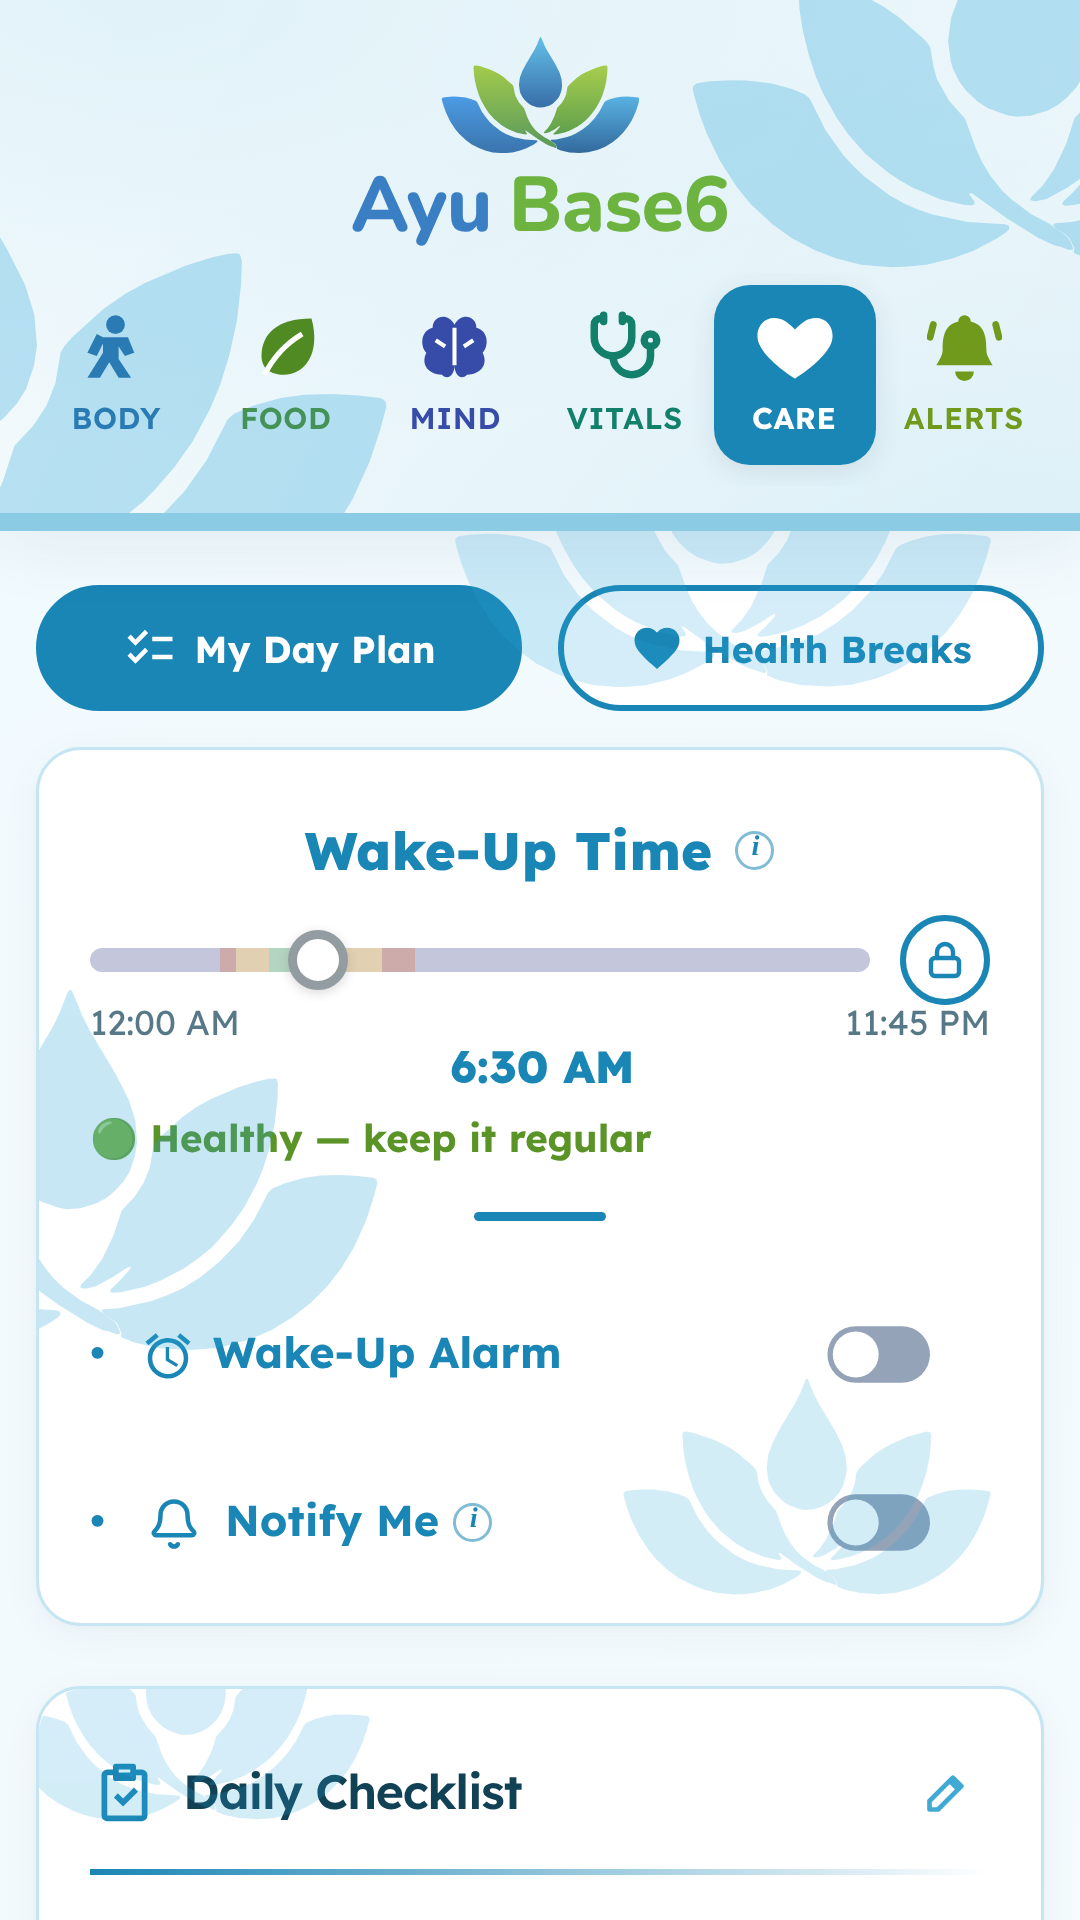
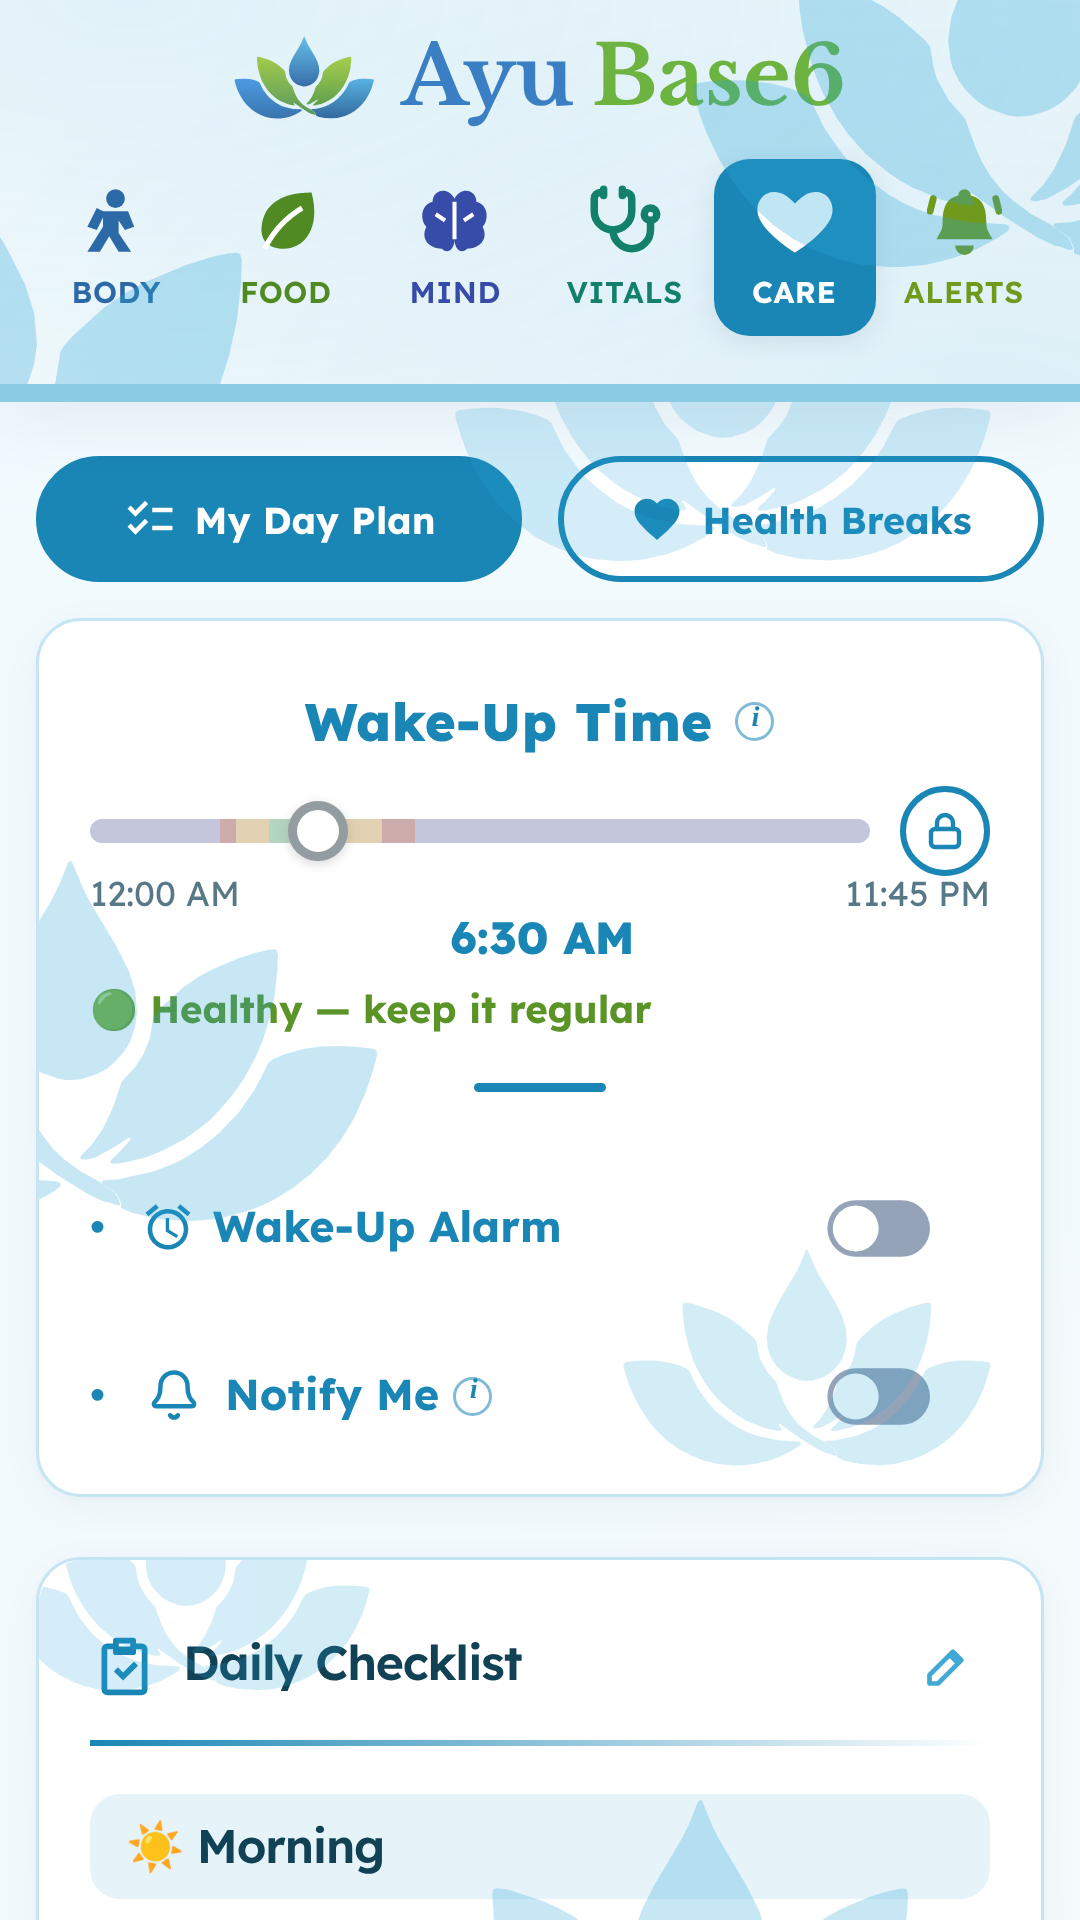
Play feature graphic and screenshots: Libre Baskerville wordmark; notes updated
Claude-Session: https://claude.ai/code/session_01VW8BU3SKMPiE9zHpTANadT

diff --git a/HANDOFF.md b/HANDOFF.md
@@ -45,7 +45,7 @@ Owner: Sharath (Hyderabad, India). App: **AyuBase6**, a health PWA (Body, Food, 
 
 ## State at handoff
 - 03-Nov-2026: files swapped (live site = no-push build), Reminders and Checks switches independent, push-server timer paused, Android app offer on the website (hidden until the first publish), privacy page, notification buttons, ads in the app, Play material ready. 04-Nov-2026: offline notice, PDF tools offline, photos and Enable offline reading in Lab Insights, Backup & Restore → Download app (Install buttons removed), My Day Plan (24 hours, shift schedule), two alarms (Checks and Reminders), Help tabs merged. Everything requested so far is committed. Next on Sharath's side: release key + token secrets, then the first publish run.
-- Logo: lotus-and-drop mark (blue petals, green leaves, blue drop) with the wordmark AyuBase (navy `#1f4f93`) + 6 (green `#6cb33f`). Section colours (main/deep): Body `#3982c3`/`#2b6aa6`, Food `#73b13b`/`#4f8a22`, Mind `#4a63c4`/`#364ca8`, Vitals `#1fa088`/`#13806c`, Care `#2aa7d9`/`#1a86b5`, Alerts (was Reminders; tab label ALERTS) `#a3c93a`/`#6f9a1c`. They come from one config: the `THEME` object in `<script id="ayu-theme">` in index.html (one block per tab; edit a tab's block to recolour only that tab). Family colours in the CSS are `var(--f<family>-<hex>,fallback)` tokens that each panel redefines. `--footer-accent` follows the open section; popups, banners, footer, test notification and tour use it. Android: `NotificationArt.java` themes match `NUDGE_THEMES`; the mark is drawn from the same 5 shapes (`MARK` / `NUDGE_MARK`).
+- Logo: lotus-and-drop mark (blue petals, green leaves, blue drop) with the wordmark "Ayu" (blue `#3a7fc4`) + "Base6" (green `#6cb33f`) in Libre Baskerville Bold (embedded as `Baskerville Ayu`); on phones the mark sits left of the name (52px wide), on the desktop sidebar they stay stacked. The footer is a raised, rounded panel tinted with the open section's colour. Play feature graphic and screenshots use the same wordmark. Section colours (main/deep): Body `#3982c3`/`#2b6aa6`, Food `#73b13b`/`#4f8a22`, Mind `#4a63c4`/`#364ca8`, Vitals `#1fa088`/`#13806c`, Care `#2aa7d9`/`#1a86b5`, Alerts (was Reminders; tab label ALERTS) `#a3c93a`/`#6f9a1c`. They come from one config: the `THEME` object in `<script id="ayu-theme">` in index.html (one block per tab; edit a tab's block to recolour only that tab). Family colours in the CSS are `var(--f<family>-<hex>,fallback)` tokens that each panel redefines. `--footer-accent` follows the open section; popups, banners, footer, test notification and tour use it. Android: `NotificationArt.java` themes match `NUDGE_THEMES`; the mark is drawn from the same 5 shapes (`MARK` / `NUDGE_MARK`).
 - Footer/section code: `FOOTER_SECTIONS`, `FOOTER_ALIAS`, `FOOTER_SUBS`, `showFooterSection(id)`, `showFooterSub(parent,sub)`; Help subs are app (website only, first, added by `get-app-20261103`), trouble, feedback; Announcements is its own section.
 - Notifications code: `showNudgeNotification`, `nudgeArt` + `NUDGE_THEMES`, `buildRules()` in the push block of `index-with-Cloudflare.html` (what the server and the Android app schedule from: custom reminders, Eyes, Walk, Water, Eyes Exercise, Checks), `ayuPush` (active/api/error/sync/repair).
 - Storage keys worth knowing: `ayuBase6-reminder-hours`, `ayubase6_reminder_section_states_v1`, `ayuBase6-my-reminders`, `ayuBase6-routine-*`, `ayuBase6-rem-alarm`, `ayuBase6WakeUpTime` (0–1425), `ayu_vitals_tracker_v1`, `ayuBase6-body-choices`, `ayuBase6-food-choices`, `healtheeCookieConsent`, `ayuBase6-tour-seen`, `ayuAnn*`. Backup groups: Body, Food, Checks, Reminders, Vitals.
